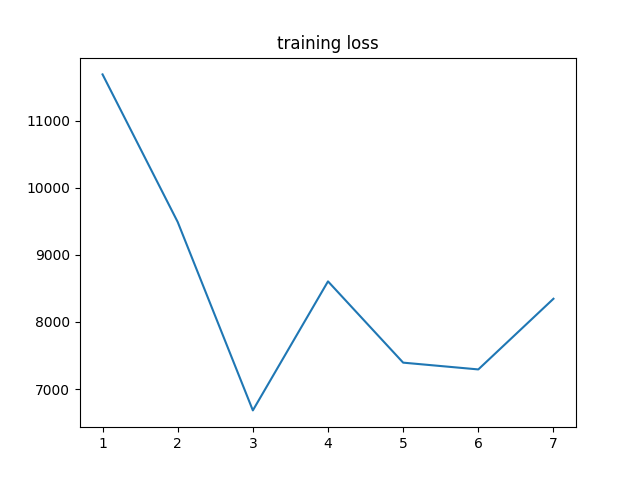
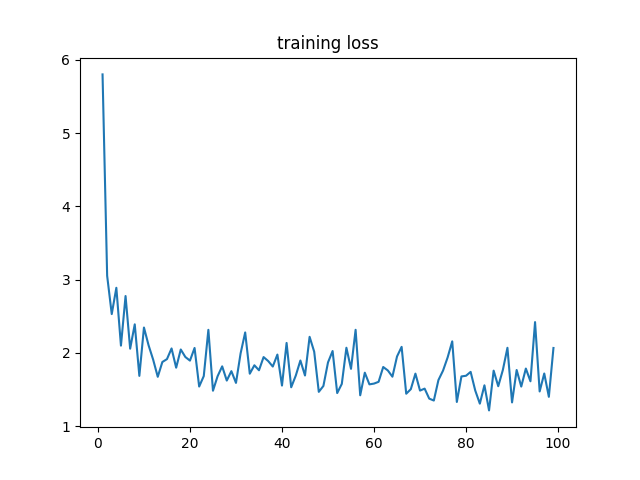
Unsupervised learning

diff --git a/UnsupPolySys/UnsupMain.py b/UnsupPolySys/UnsupMain.py
@@ -1,0 +1,56 @@
+import numpy as np
+import torch
+import torch.nn as nn
+import torch.optim as optim
+from UnsupModel import UnsupModel
+from dataset import generate_batch
+import matplotlib.pyplot as plt
+
+
+def train_unsup(model, system, labels):
+    device = next(model.parameters()).device
+    n_batches = 100
+    n_epochs = 100
+    criterion = nn.L1Loss()
+    optimizer = optim.Adam(model.parameters(), lr=0.01)
+
+    losses = np.zeros((3, n_epochs))
+
+    for e in range(n_epochs):
+        print(f'===Epoch {e + 1}===')
+        epoch_loss = 0
+        epoch_distance = 0
+        for i in range(n_batches):
+            optimizer.zero_grad()
+            # losses = model.training_step(batch)
+            out = model(system)
+            loss = criterion(torch.tensor(0.), (out ** 2).max())
+            loss.backward()
+            optimizer.step()
+            print(f'Epoch:{e + 1:5d}, Batch:{i + 1:5d}, Loss: {loss.item():.3f}')
+            epoch_loss += loss
+            epoch_distance += torch.norm((labels - out))
+        epoch_loss /= n_batches
+        epoch_distance /= n_batches
+        losses[0, e] = e + 1
+        losses[1, e] = epoch_loss
+        losses[2, e] = epoch_distance
+
+        if e % 50 == 0:
+            torch.save(model.state_dict(), f'solver{e}.pth')
+        plt.figure()
+        plt.title('training loss')
+        plt.plot(losses[0, :e], losses[1, :e])
+        plt.savefig(f'train_loss.png')
+        plt.figure()
+        plt.title('training distance from real solution')
+        plt.plot(losses[0, :e], losses[2, :e])
+        plt.savefig(f'train_dist.png')
+
+
+if __name__ == '__main__':
+    system, labels = generate_batch()
+    system = system.squeeze()
+    labels = labels.squeeze()
+    model = UnsupModel(18, 2)
+    train_unsup(model, system, labels)

diff --git a/UnsupPolySys/dataset.py b/UnsupPolySys/dataset.py
@@ -1,0 +1,34 @@
+import os.path
+import sys
+import numpy as np
+from scipy.stats import special_ortho_group as random_rotation
+import yaml
+import torch
+
+sys.path.append(os.path.join('..', 'PNPData'))
+
+from PNPData.PNP import get_lagrange_coefficients, get_pol_system
+
+with open(os.path.join('..', 'PNPData', 'config.yml'), 'r') as cfg:
+    cfg = yaml.load(cfg, Loader=yaml.FullLoader)
+
+
+def generate_batch(batch_size=1):
+    systems_list = []
+    labels_list = []
+    for i in range(batch_size):
+        p_points = np.random.random_sample((cfg['DATASET']['POINTS'], cfg['DATASET']['DIMENSION']))
+        rotation = random_rotation.rvs(cfg['DATASET']['DIMENSION'])
+        translation = np.random.random_sample(cfg['DATASET']['DIMENSION'])
+        q_points = (rotation @ p_points.T + translation[:, np.newaxis]).T
+        lagrange = get_lagrange_coefficients(q_points=q_points, p_points=p_points, translation=translation,
+                                             rotation=rotation)
+        labels = np.concatenate([rotation.ravel(), translation, lagrange])
+        system = get_pol_system(q_points=q_points, p_points=p_points)
+        systems_list.append(system)
+        labels_list.append(labels)
+    return torch.from_numpy(np.stack(systems_list, axis=0)), torch.from_numpy(np.stack(labels_list, axis=0))
+
+
+if __name__ == '__main__':
+    print(generate_batch())

diff --git a/PNPData/PNP.py b/PNPData/PNP.py
@@ -35,8 +35,12 @@ def ncr(n, r):
     return comb(n, r, exact=True)
 
 
-with open(r'PNPData/config.yml', 'r') as cfg:
-    cfg = yaml.load(cfg, Loader=yaml.FullLoader)
+try:
+    with open(os.path.join('PNPData', 'config.yml'), 'r') as cfg:
+        cfg = yaml.load(cfg, Loader=yaml.FullLoader)
+except:
+    with open(os.path.join('..', 'PNPData', 'config.yml'), 'r') as cfg:
+        cfg = yaml.load(cfg, Loader=yaml.FullLoader)
 
 
 def gen_data(data_path: str = cfg["DATASET"]["NAME"]):
@@ -184,6 +188,7 @@ def get_lagrange_coefficients(*, q_points: np.ndarray, p_points: np.ndarray, tra
 
 
 def resize_vector(vector):
+    device = vector.device
     vector = torch.cat((vector, torch.ones((vector.shape[0], 1), device=device)), dim=-1)
     vector_indexer = Indexer(vector.shape[1])
     resized = torch.zeros((vector.shape[0], len(vector_indexer)), device=device)

diff --git a/UnsupPolySys/UnsupModel.py b/UnsupPolySys/UnsupModel.py
@@ -1,0 +1,17 @@
+import torch
+import torch.nn as nn
+import sys
+import os.path
+
+sys.path.append(os.path.join('..', 'PNPData'))
+
+from PNPData.PNP import resize_vector
+
+
+class UnsupModel(nn.Module):
+    def __init__(self, n, d):
+        super().__init__()
+        self.roots = nn.Parameter(data=torch.rand(n), requires_grad=True)
+
+    def forward(self, system):
+        return (system @ resize_vector(self.roots.unsqueeze(0)).T).squeeze()

diff --git a/PiNet/PiNetTrain.py b/PiNet/PiNetTrain.py
@@ -64,6 +64,6 @@ if __name__ == '__main__':
     except FileNotFoundError:
         pass
     with open(file_name, 'w') as output_file:
-        model = PiNet(12, 3, 2, output_file)
+        model = PiNet(5, 3, 2, output_file)
         model.to('cuda')
         train_pinet(model)
